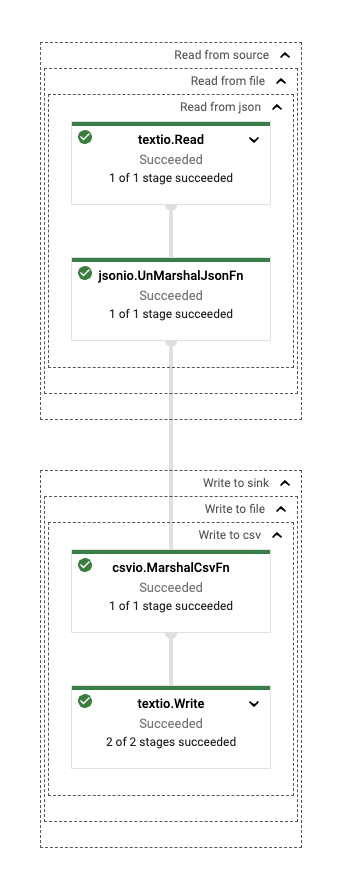
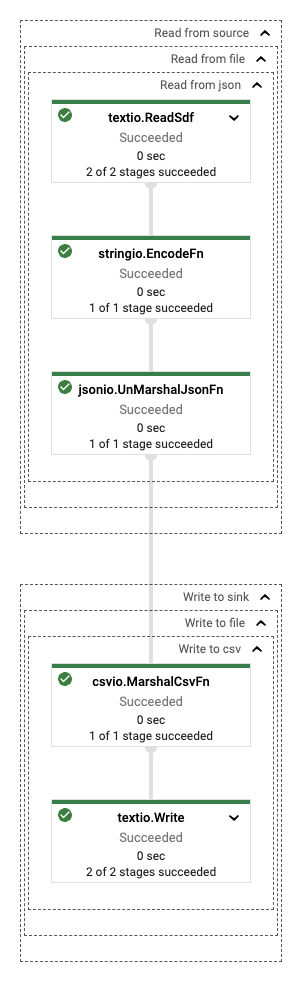
Replaced textio.Read with textio.ReadSdf

Changed region(s): [[0.0592, 0.0303, 0.9474, 0.9686], [0.1776, 0.5146, 0.2368, 0.5448]]

diff --git a/pkg/io/jsonio/read.go b/pkg/io/jsonio/read.go
@@ -11,7 +11,7 @@ import (
 
 func Read(scope beam.Scope, inputPath string, elemType reflect.Type) beam.PCollection {
 	scope = scope.Scope("Read from json")
-	col := textio.Read(scope, inputPath)
+	col := textio.ReadSdf(scope, inputPath)
 	encoded := beam.ParDo(scope, &stringio.EncodeFn{}, col)
 	return beam.ParDo(
 		scope,

diff --git a/pkg/io/csvio/read.go b/pkg/io/csvio/read.go
@@ -13,7 +13,7 @@ func Read(
 	elemType reflect.Type,
 ) beam.PCollection {
 	scope = scope.Scope("Read from csv")
-	col := textio.Read(scope, inputPath)
+	col := textio.ReadSdf(scope, inputPath)
 	return beam.ParDo(
 		scope,
 		&UnMarshalCsvFn{Type: beam.EncodedType{T: elemType}},
